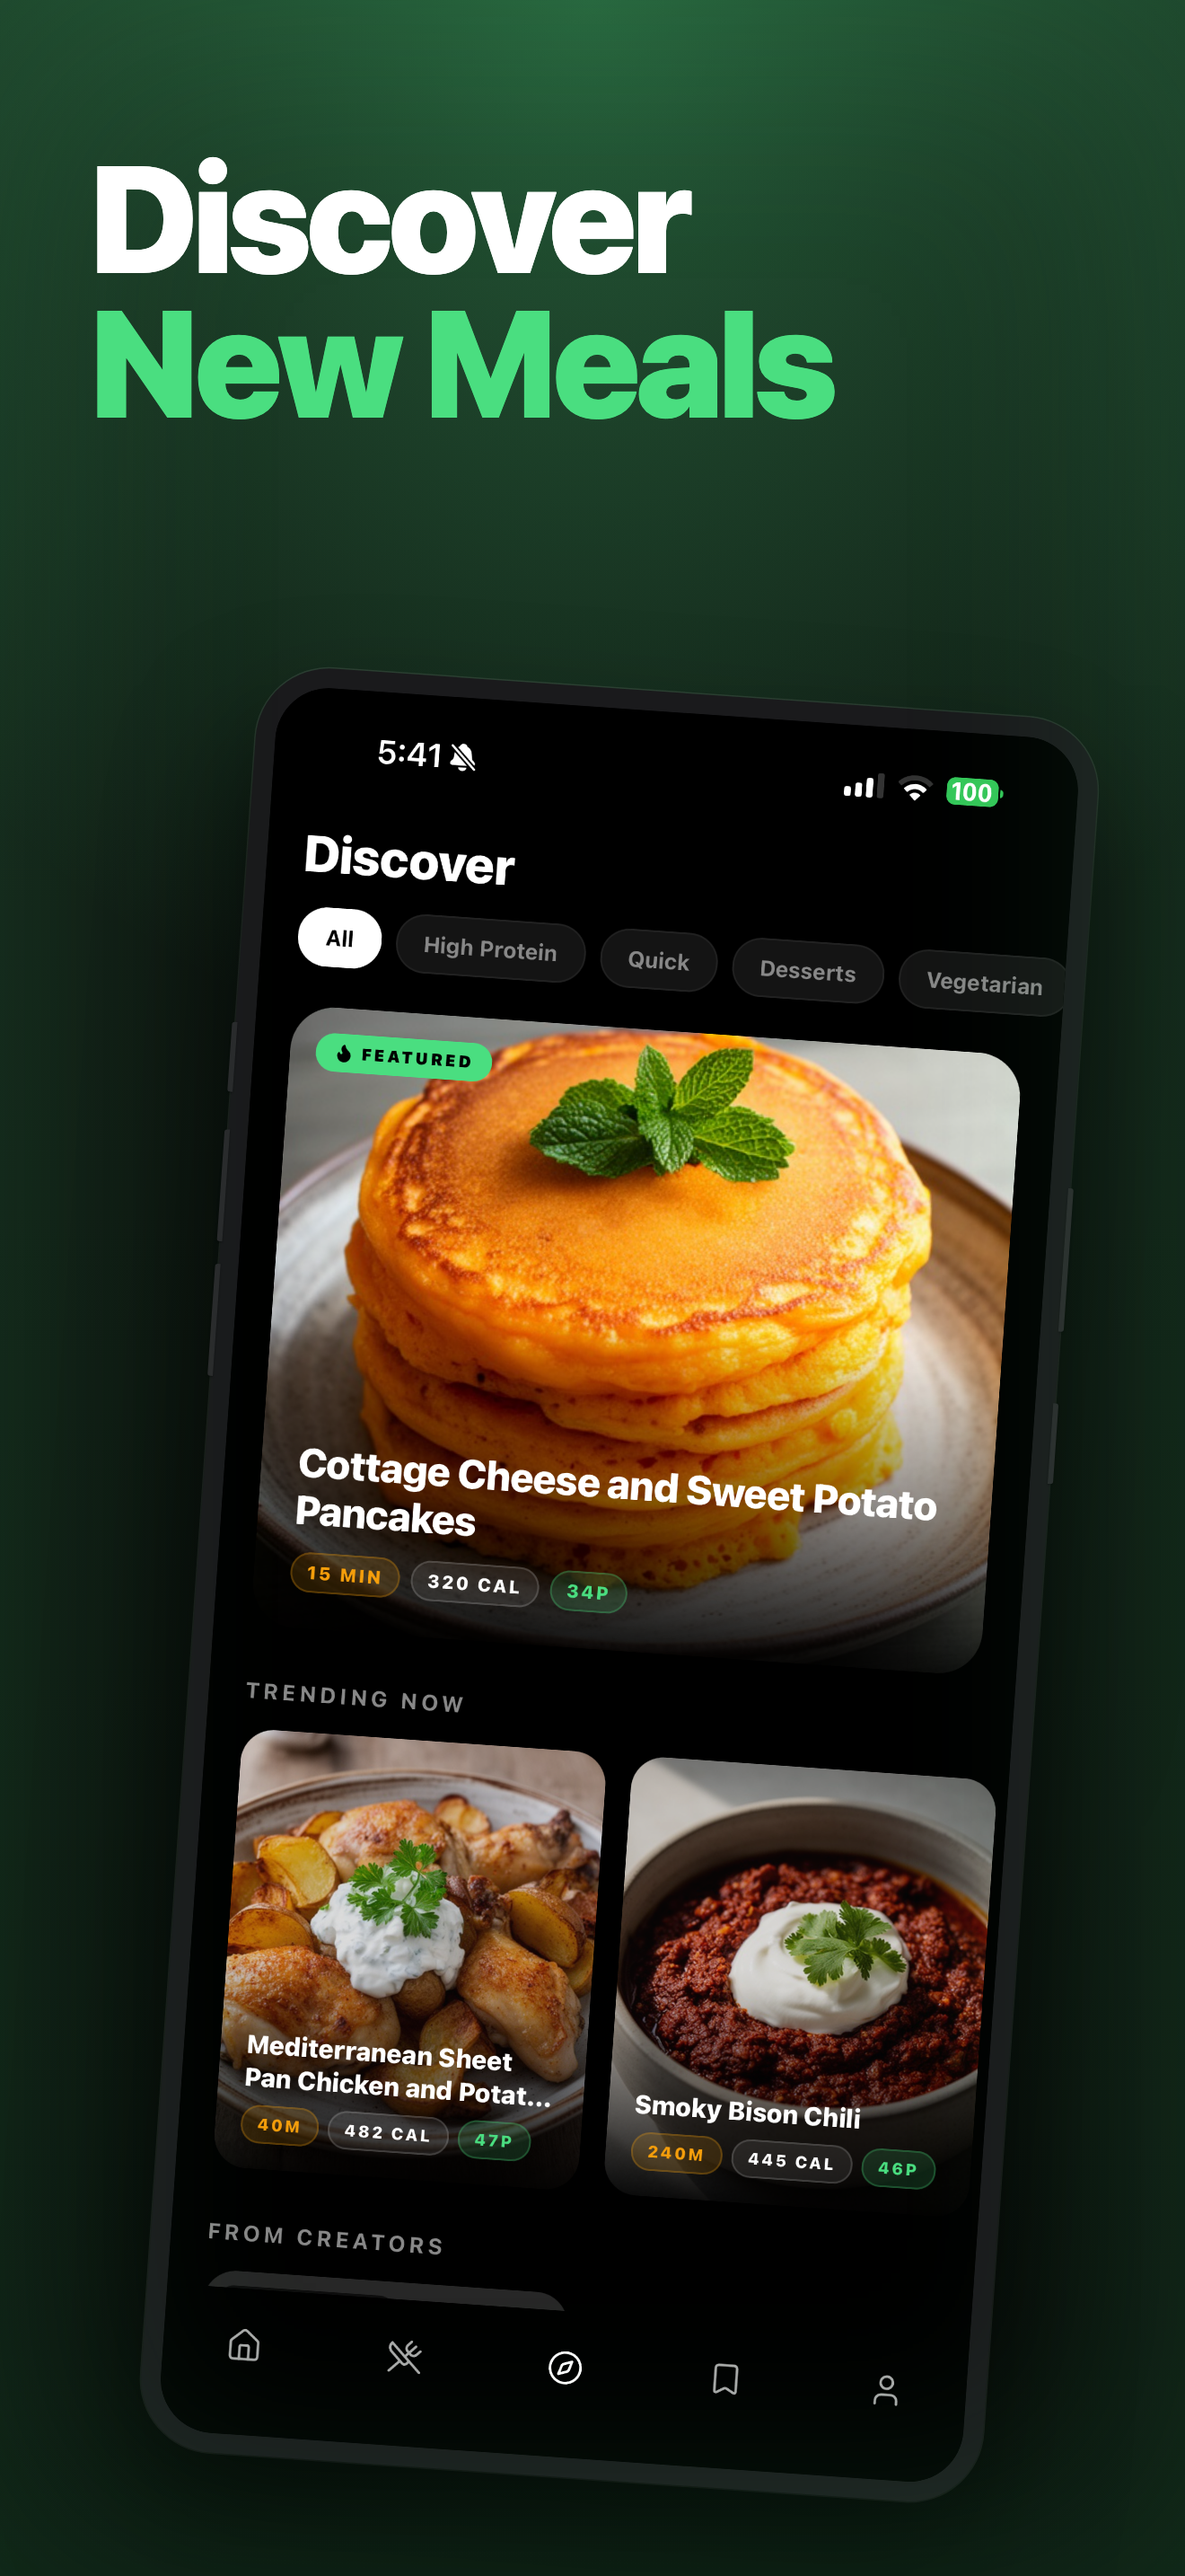
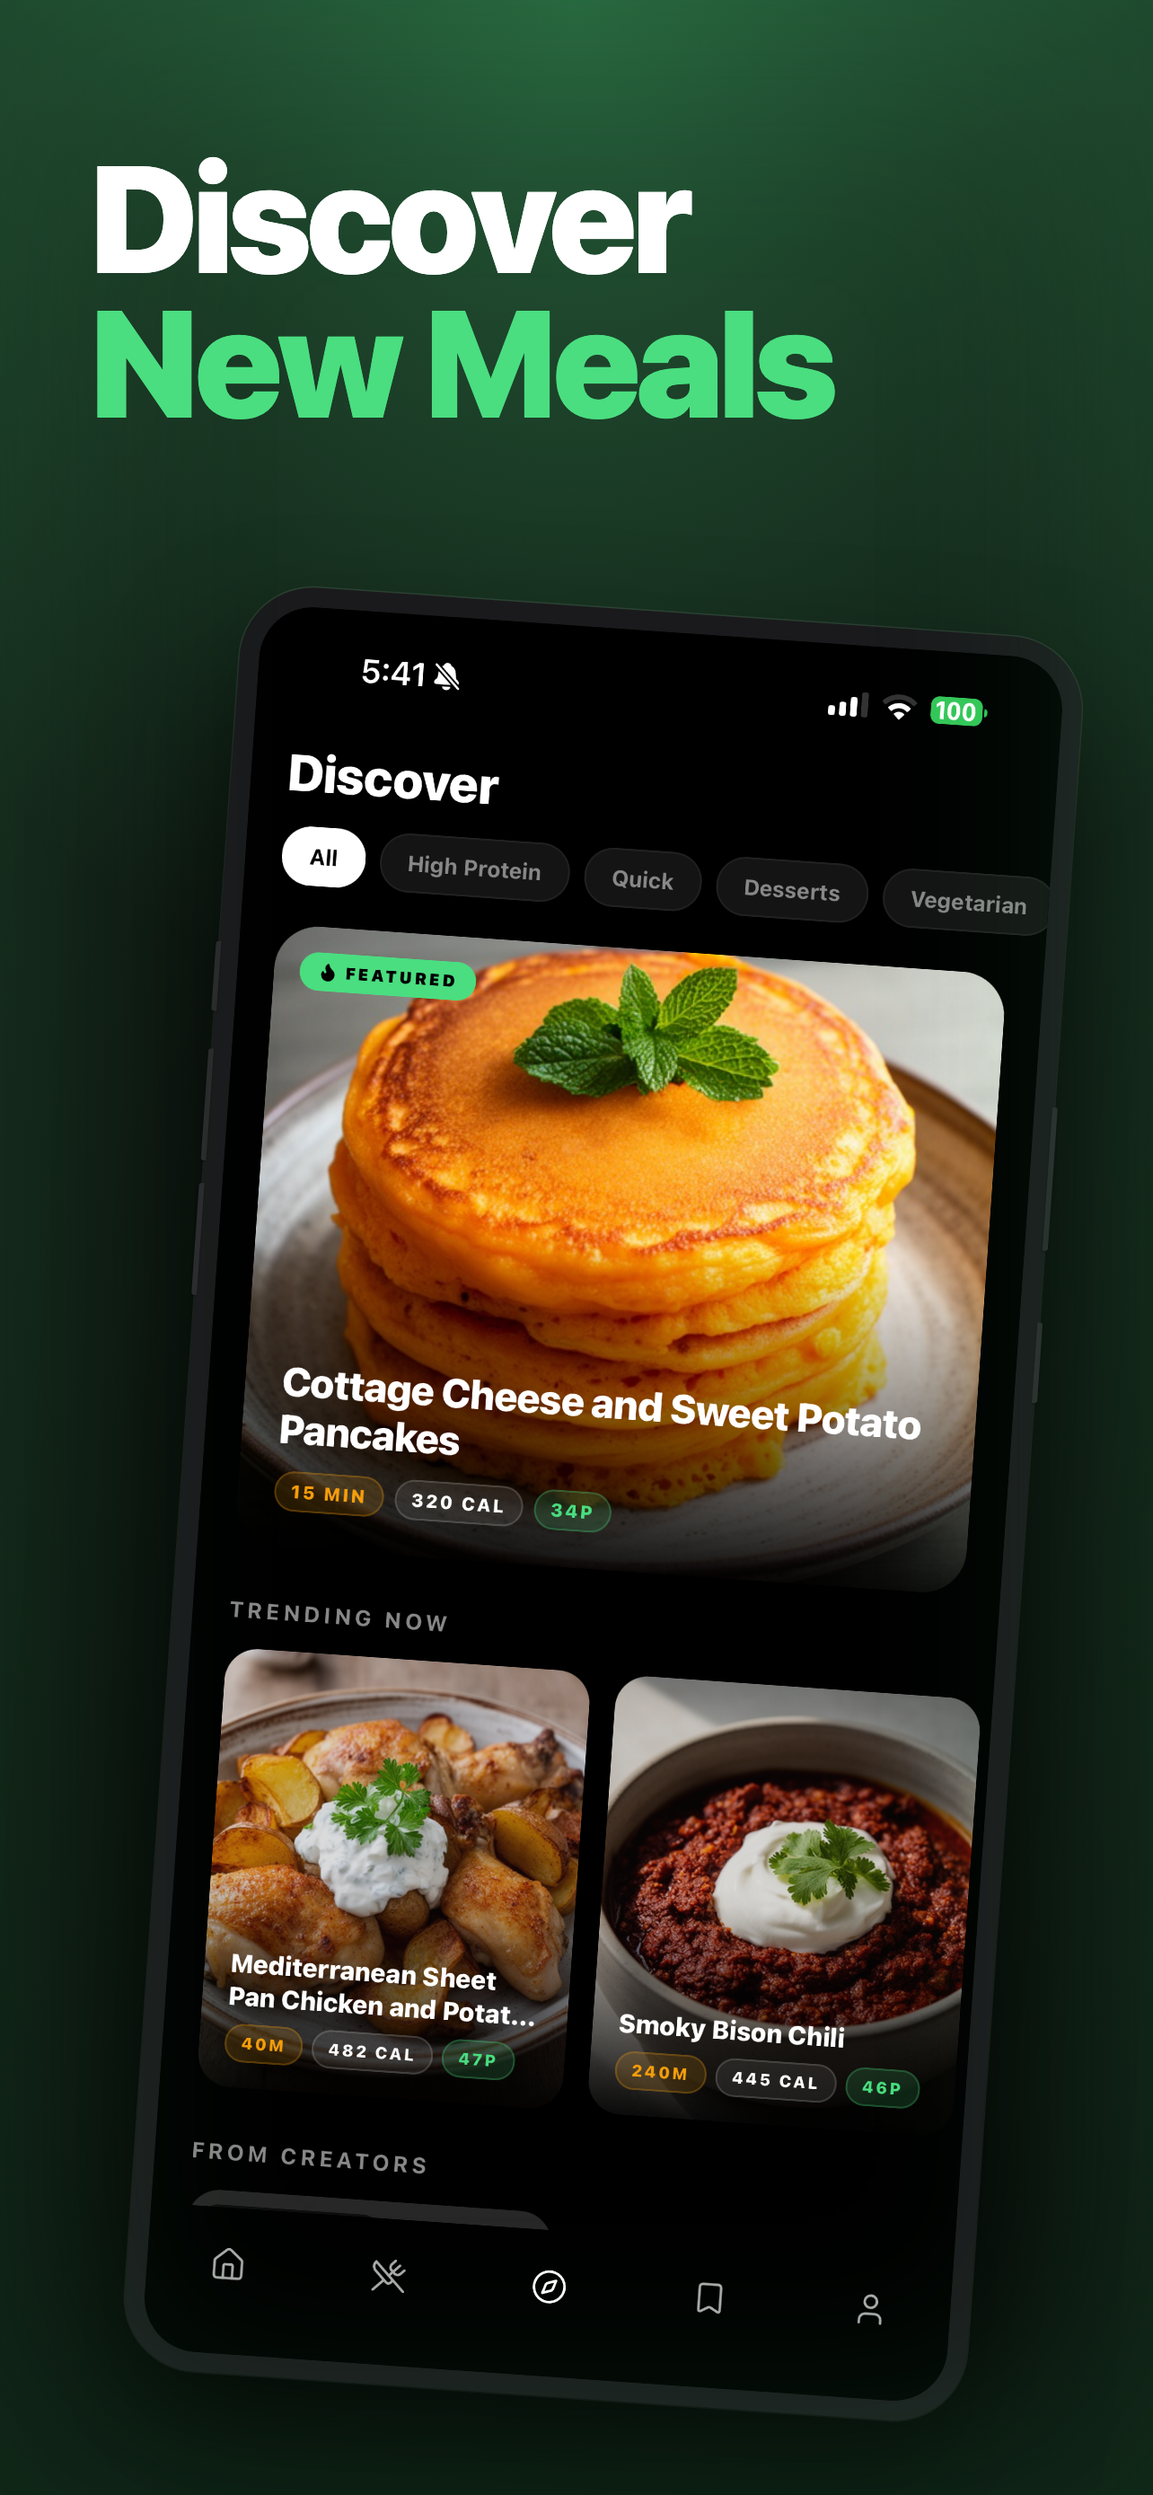
fix(appstore): re-render at 1284×2778 to match App Store Connect's accepted dimensions
App Store Connect rejected the 1320×2868 output with:
  "Screenshots dimensions should be: 1242×2688px or 1284×2778px"

The iPhone slot Logan is uploading to expects the iPhone 6.5"/6.7" Display
spec, not the newest 6.9" spec. 1.5% scale-down, aspect ratio nearly
identical, no visible quality loss.

If a separate iPhone 6.9" Display slot becomes required, switch template
+ render viewport back to 1320×2868 and re-run.

diff --git a/appstore-screenshots/render.js b/appstore-screenshots/render.js
@@ -38,7 +38,7 @@ function renderLine(line) {
 
   const browser = await chromium.launch()
   const context = await browser.newContext({
-    viewport: { width: 1320, height: 2868 },
+    viewport: { width: 1284, height: 2778 },
     deviceScaleFactor: 1,
   })
 

diff --git a/appstore-screenshots/template.html b/appstore-screenshots/template.html
@@ -6,8 +6,8 @@
     * { margin: 0; padding: 0; box-sizing: border-box; }
 
     html, body {
-      width: 1320px;
-      height: 2868px;
+      width: 1284px;
+      height: 2778px;
       overflow: hidden;
     }
 
